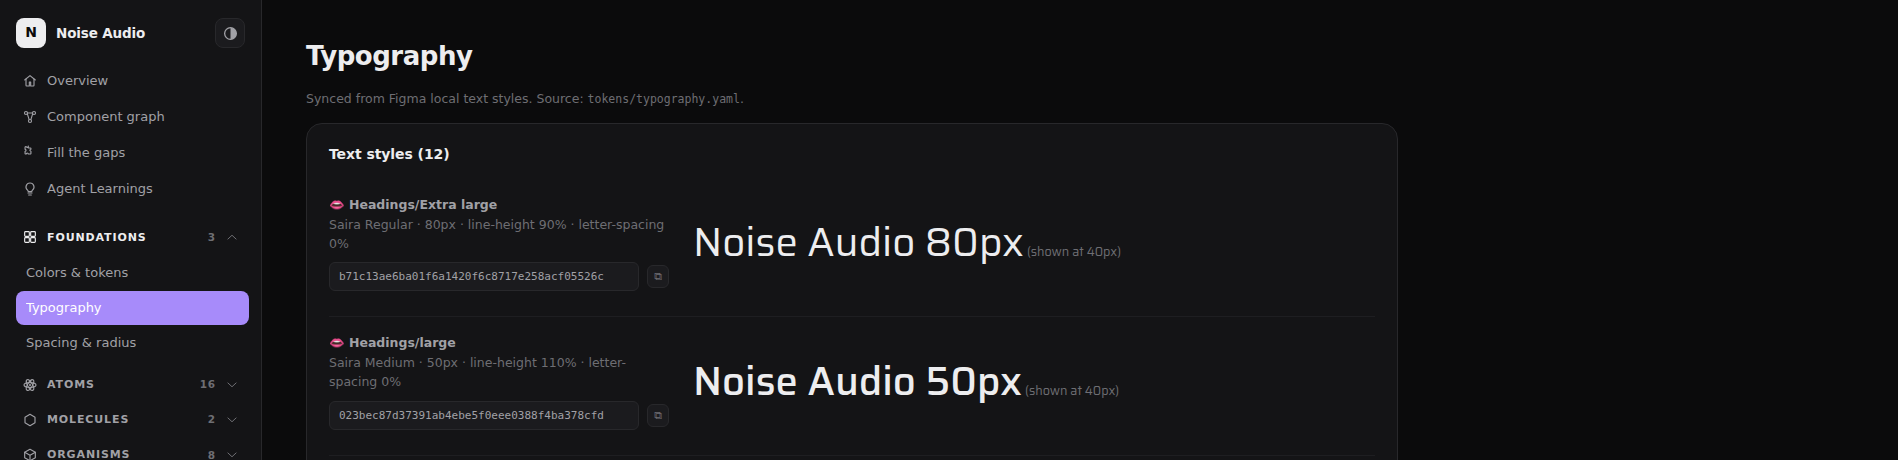
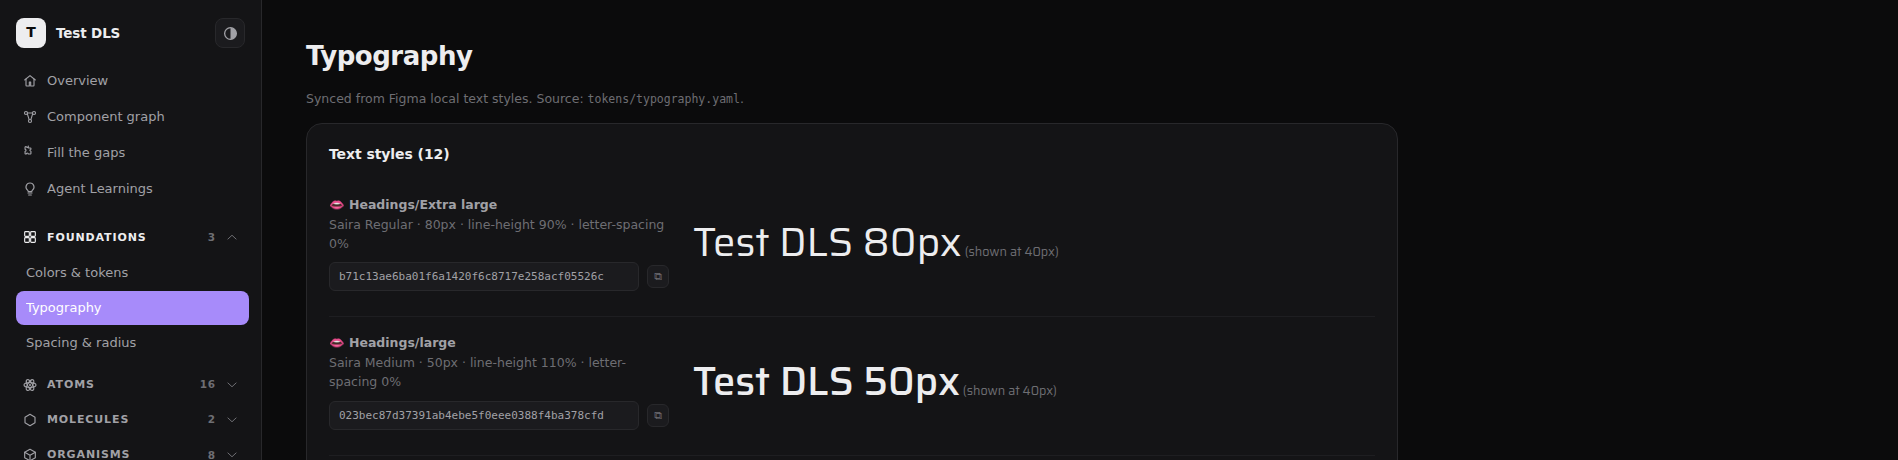
Case study: rebrand from Noise Audio to Test DLS
Matches the dashboard rebrand — the source design system is
confidential, so its real name can't appear in a public case study.

- Two prose mentions ("Noise Audio's own design language system" /
  "two of Noise Audio's own screens") now read "Test DLS", with a note
  in the Intro explaining the source is referred to by a placeholder
  name.
- All 14 fake browser-chrome URL labels (noise-audio-dashboard[.vercel.app])
  now read test-dls-dashboard.
- The login-gate screenshot's alt text and the page footer.
- Ten screenshots that showed the dashboard's old sidebar/title chrome —
  the two Stage 2 walkthrough shots, the two Stage 4 graph shots, the
  Diving Deeper > Overview/Foundations(x3)/Prototypes shots, and the
  login-gate screenshot — recaptured against the now-rebranded live
  dashboard via Playwright, matching each original's crop and
  dimensions.

Verified: no case-insensitive "noise" text remains anywhere in the
rendered page body, alt attributes, or asset filenames. Nav/panel
wiring and all 40 image references still resolve.

Changed region(s): [[0.3419, 0.7913, 0.5906, 0.8826], [0.3419, 0.487, 0.5906, 0.5783], [0.0, 0.0609, 0.0933, 0.0913]]

diff --git a/case-study/index.html b/case-study/index.html
@@ -624,8 +624,8 @@
           </p>
           <p>
             The rest of this case study walks through exactly that, using one real, production design
-            system as the proof: Noise Audio's own design language system, and what it actually took to
-            get an AI agent to understand it.
+            system as the proof — referred to here as Test DLS, since the source is confidential — and
+            what it actually took to get an AI agent to understand it.
           </p>
 
           <div class="citation-list">
@@ -687,7 +687,7 @@
           <h3 class="overview-section-title">Close Enough To Look Right</h3>
           <p class="compare-intro">
             To see this gap first-hand instead of just arguing about it, we ran a small experiment: take
-            two of Noise Audio's own screens and have a coding agent rebuild them as working HTML using
+            two of Test DLS's own screens and have a coding agent rebuild them as working HTML using
             nothing but visual feedback — no structural design data, just iterating by eye against the
             reference. Holistically, the result holds up well — roughly seventy percent of the way there
             at a glance. Looking closely is where it falls apart.
@@ -1206,7 +1206,7 @@
           <div class="walkthrough-frame">
             <div class="browser-chrome">
               <span class="browser-dot"></span><span class="browser-dot"></span><span class="browser-dot"></span>
-              <span class="browser-url">noise-audio-dashboard — Overview</span>
+              <span class="browser-url">test-dls-dashboard — Overview</span>
             </div>
             <div class="walkthrough-body">
               <img src="assets/stage2-dashboard-overview.png" alt="The generated dashboard's overview page, showing 26 components in the library broken down into 16 atoms, 2 molecules, 6 organisms, and 2 complex organisms.">
@@ -1217,7 +1217,7 @@
           <div class="walkthrough-frame">
             <div class="browser-chrome">
               <span class="browser-dot"></span><span class="browser-dot"></span><span class="browser-dot"></span>
-              <span class="browser-url">noise-audio-dashboard — Master card</span>
+              <span class="browser-url">test-dls-dashboard — Master card</span>
             </div>
             <div class="walkthrough-body">
               <img src="assets/stage2-dashboard-component-detail.png" alt="The generated dashboard's component detail page for Master card, showing the same usage and design intent text seen earlier in The Approach and Stage 1, now rendered live from the repository.">
@@ -1271,7 +1271,7 @@
           <div class="walkthrough-frame">
             <div class="browser-chrome">
               <span class="browser-dot"></span><span class="browser-dot"></span><span class="browser-dot"></span>
-              <span class="browser-url">noise-audio-dashboard — Component graph</span>
+              <span class="browser-url">test-dls-dashboard — Component graph</span>
             </div>
             <div class="walkthrough-body">
               <img src="assets/stage4-graph-full-view.png" alt="The full component graph: 26 nodes colored by type and sized by usage count, connected by solid structural edges and dashed behavioral edges, laid out live by a force simulation.">
@@ -1289,7 +1289,7 @@
           <div class="walkthrough-frame">
             <div class="browser-chrome">
               <span class="browser-dot"></span><span class="browser-dot"></span><span class="browser-dot"></span>
-              <span class="browser-url">noise-audio-dashboard — Component graph (hover: master-card)</span>
+              <span class="browser-url">test-dls-dashboard — Component graph (hover: master-card)</span>
             </div>
             <div class="walkthrough-body">
               <img src="assets/stage4-graph-hover-spotlight.png" alt="Hovering the master-card node spotlights its two structural children, actionables and heading-content, while every unconnected node dims almost to invisible.">
@@ -1370,7 +1370,7 @@
         <div class="walkthrough-frame">
           <div class="browser-chrome">
             <span class="browser-dot"></span><span class="browser-dot"></span><span class="browser-dot"></span>
-            <span class="browser-url">noise-audio-dashboard.vercel.app/index.html</span>
+            <span class="browser-url">test-dls-dashboard.vercel.app/index.html</span>
           </div>
           <div class="walkthrough-body">
             <img src="assets/deepdive-overview.png" alt="The dashboard's Overview page: a How this system works card, a 1 error card, and Library at a glance showing 26 components split into atoms, molecules, organisms, and complex organisms.">
@@ -1402,7 +1402,7 @@
         <div class="walkthrough-frame" style="margin-top:16px;">
           <div class="browser-chrome">
             <span class="browser-dot"></span><span class="browser-dot"></span><span class="browser-dot"></span>
-            <span class="browser-url">noise-audio-dashboard.vercel.app/index.html — System understanding</span>
+            <span class="browser-url">test-dls-dashboard.vercel.app/index.html — System understanding</span>
           </div>
           <div class="walkthrough-body">
             <img src="assets/deepdive-overview-system-understanding.png" alt="The System understanding card: five documentation-field rows (Usage, Rules, Design intent, Anti-patterns, Purpose) each with a Complete or Incomplete status and an Edit link, Reference integrity counts, Relationship density with a structural/behavioral split bar, and Agent learnings counts.">
@@ -1454,7 +1454,7 @@
         <div class="walkthrough-frame">
           <div class="browser-chrome">
             <span class="browser-dot"></span><span class="browser-dot"></span><span class="browser-dot"></span>
-            <span class="browser-url">noise-audio-dashboard.vercel.app/fill-gaps.html</span>
+            <span class="browser-url">test-dls-dashboard.vercel.app/fill-gaps.html</span>
           </div>
           <div class="walkthrough-body" style="min-height:auto;">
             <img src="assets/deepdive-fillgaps-tabs.png" alt="Fill the gaps tabs: Purpose 11, Usage 0, Design intent 1, Anti-patterns 1, Rules 0.">
@@ -1467,7 +1467,7 @@
         <div class="walkthrough-frame">
           <div class="browser-chrome">
             <span class="browser-dot"></span><span class="browser-dot"></span><span class="browser-dot"></span>
-            <span class="browser-url">noise-audio-dashboard.vercel.app/fill-gaps.html — Purpose</span>
+            <span class="browser-url">test-dls-dashboard.vercel.app/fill-gaps.html — Purpose</span>
           </div>
           <div class="walkthrough-body">
             <img src="assets/deepdive-fillgaps-panel.png" alt="List of components missing a Purpose — Actionables, Chevron, Checkbox, Radio Button — each row linking to its own fill-in page.">
@@ -1498,7 +1498,7 @@
         <div class="walkthrough-frame">
           <div class="browser-chrome">
             <span class="browser-dot"></span><span class="browser-dot"></span><span class="browser-dot"></span>
-            <span class="browser-url">noise-audio-dashboard.vercel.app/learnings.html</span>
+            <span class="browser-url">test-dls-dashboard.vercel.app/learnings.html</span>
           </div>
           <div class="walkthrough-body" style="min-height:auto;">
             <img src="assets/deepdive-learnings-tabs.png" alt="Agent Learnings tabs: Pending review 1, Confirmed 1, Rejected 1.">
@@ -1523,7 +1523,7 @@
         <div class="walkthrough-frame">
           <div class="browser-chrome">
             <span class="browser-dot"></span><span class="browser-dot"></span><span class="browser-dot"></span>
-            <span class="browser-url">noise-audio-dashboard.vercel.app/colors.html</span>
+            <span class="browser-url">test-dls-dashboard.vercel.app/colors.html</span>
           </div>
           <div class="walkthrough-body">
             <img src="assets/deepdive-foundations-colors.png" alt="Colors and tokens page: a table of color tokens, each with a plain-English usage note and a swatch plus value for light mode and dark mode.">
@@ -1538,7 +1538,7 @@
         <div class="walkthrough-frame" style="margin-top:28px;">
           <div class="browser-chrome">
             <span class="browser-dot"></span><span class="browser-dot"></span><span class="browser-dot"></span>
-            <span class="browser-url">noise-audio-dashboard.vercel.app/typography.html</span>
+            <span class="browser-url">test-dls-dashboard.vercel.app/typography.html</span>
           </div>
           <div class="walkthrough-body">
             <img src="assets/deepdive-foundations-typography.png" alt="Typography page: text styles rendered live at their real size, next to a copyable style-key hash.">
@@ -1552,7 +1552,7 @@
         <div class="walkthrough-frame" style="margin-top:28px;">
           <div class="browser-chrome">
             <span class="browser-dot"></span><span class="browser-dot"></span><span class="browser-dot"></span>
-            <span class="browser-url">noise-audio-dashboard.vercel.app/spacing.html</span>
+            <span class="browser-url">test-dls-dashboard.vercel.app/spacing.html</span>
           </div>
           <div class="walkthrough-body">
             <img src="assets/deepdive-foundations-spacing.png" alt="Spacing and radius page: the base numeral scale from 4px to 32px, each value with a small bar showing its size.">
@@ -1584,7 +1584,7 @@
         <div class="walkthrough-frame">
           <div class="browser-chrome">
             <span class="browser-dot"></span><span class="browser-dot"></span><span class="browser-dot"></span>
-            <span class="browser-url">noise-audio-dashboard.vercel.app/components/primary-cta-button.html</span>
+            <span class="browser-url">test-dls-dashboard.vercel.app/components/primary-cta-button.html</span>
           </div>
           <div class="walkthrough-body">
             <img src="assets/deepdive-component-preview.png" alt="Live rendered preview of the Primary CTA button's variants, each labelled with its state, usage, and Figma node id.">
@@ -1670,7 +1670,7 @@
         <div class="walkthrough-frame">
           <div class="browser-chrome">
             <span class="browser-dot"></span><span class="browser-dot"></span><span class="browser-dot"></span>
-            <span class="browser-url">noise-audio-dashboard.vercel.app/prototypes.html</span>
+            <span class="browser-url">test-dls-dashboard.vercel.app/prototypes.html</span>
           </div>
           <div class="walkthrough-body">
             <img src="assets/deepdive-prototypes-full.png" alt="The Prototypes page: a status legend and a grid of flow cards, each with a colored left-edge stripe, a description, and Open flow / Edit buttons.">
@@ -1716,7 +1716,7 @@
             </div>
           </div>
           <div class="mini-card">
-            <img src="assets/deepdive-login-gate.png" alt="Login screen: Noise Audio dashboard title, a password field, and a Sign in button.">
+            <img src="assets/deepdive-login-gate.png" alt="Login screen: Test DLS dashboard title, a password field, and a Sign in button.">
             <div class="mini-card-cap">
               <b>The password gate</b> — before any of this loads, the whole dashboard sits behind
               a password. It isn't just publicly reachable to anyone with the link.
@@ -1730,7 +1730,7 @@
 
 </main>
 
-<footer class="cs-footer">NOISE AUDIO DASHBOARD — A FIGMA-TO-CODE DESIGN-SYSTEM CASE STUDY</footer>
+<footer class="cs-footer">TEST DLS DASHBOARD — A FIGMA-TO-CODE DESIGN-SYSTEM CASE STUDY</footer>
 
 <script>
   // ---------- sub-navigation (Structure sidebar): click-to-scroll + scrollspy ----------
